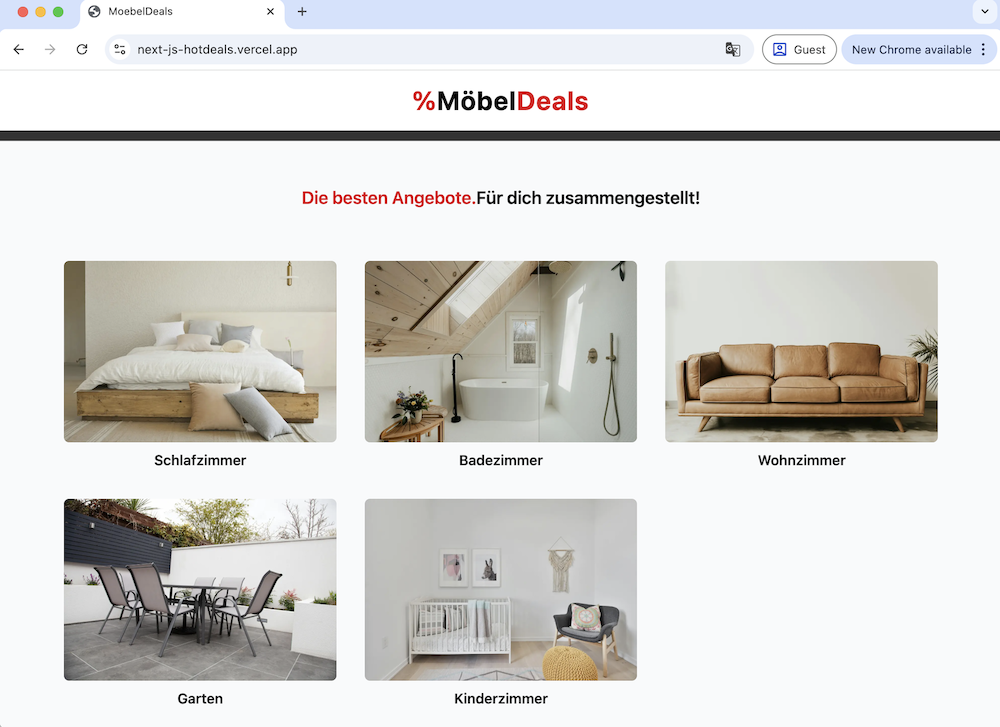
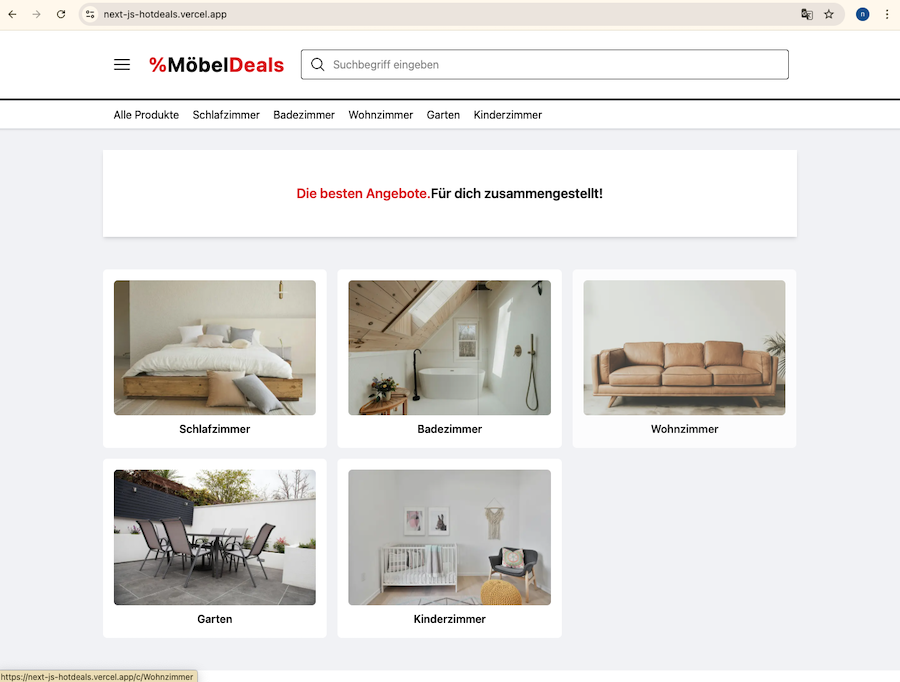
Update README

diff --git a/README.md b/README.md
@@ -2,14 +2,14 @@
 
 # MöbelDeals Platform Mock-Up
 
-This is a basic platform mock-up showcasing deals from two Austrian furniture stores. The platform is branded with a simple logo and name: MöbelDeals.
+This is a basic platform mock-up bringing together deals from two Austrian retail chains in one convenient place. The platform is branded with a simple logo and name: MöbelDeals.
 It is built as a Next.js application that uses a PostgreSQL database for storing and managing deals data. The data was scraped using Python packages (Scrapy and Playwright).
 
 #### Features
 
-Users can browse and filter deals by categories and shops.
+Users can browse, search and filter deals by categories and shops.
 Each deal links directly to the product page on the original store's website, allowing users to get more information and purchase items seamlessly.
-Currently, deals are available for the following categories: Wohnzimmer (Living Room), Schlafzimmer (Bedroom), and Badezimmer (Bathroom).
+Currently, deals are available in the following categories: Schlafzimmer (Bedroom), Badezimmer (Bathroom), Wohnzimmer (Living Room), Garten (Garden), and Kinderzimmer (Kids' Room)
 
 #### Data Collection
 
@@ -104,40 +104,53 @@ cd next-js-hotdeals
 
 ## CI/CD Pipeline – Jenkins Multibranch Pipeline
 
-(automates versioning and Docker image deployment)
-
-#### Jenkins Pipeline Features
-
-- Version Management
-  When code is pushed to, or pull requests are merged into, the `main` branch, the pipeline automatically:
-
-  - Reads the current version from `package.json`
-  - Increments the patch version (e.g., `1.2.3 → 1.2.4`)
-  - Commits the updated version back to the repository
-
-- Docker Image Build & Push
-  After updating the version:
-  - A Docker image is built from the current state of the app
-  - The image is tagged using the new version (e.g., `hotdeals-1.2.4`)
-  - The image is securely pushed to a private Docker registry
+This process automates versioning, builds and pushes a Docker image to a private Docker repository, and deploys it on an AWS EC2 instance.
 
 #### Jenkins Requirements
 
-- A configured Multibranch Pipeline job pointing to this repository
+- A configured Multibranch Pipeline job pointing to this repository.
 - Required credentials:
-  - Docker registry authentication
-  - GitHub push access
-- GitHub webhook that triggers the pipeline on pushes and pull request updates
+  - Docker registry credentials (for authentication).
+  - GitHub credentials with push access.
+  - SSH key (openSSH) for connecting to the Amazon EC2 instance.
+- A GitHub webhook configured to trigger the pipeline on push events and pull request updates.
+
+#### AWS Requirements
+
+- An AWS account
+- An Amazon EC2 key pair
+- An AWS IAM User with programmatic key access and permissions to launch EC2 instances
+- A running Amazon EC2 instance with the following setup:
+  - Docker installed (to run Docker commands)
+  - Security Group / Firewall configured to:
+    - Allow Jenkins to connect via SSH
+    - Open the necessary application port(s) or external access
+
+#### Jenkins Pipeline Features
+
+- Automated Testing
+
+  - End-to-end (E2E) tests are run using Playwright
+  - Tests are triggered automatically whenever code is pushed to any active branch
+
+- Full CI/CD Pipeline (on `main` branch updates)
+  The complete pipeline — including versioning, build, test, and deployment — runs automatically when:
+
+  - Code is pushed to the main branch, or
+  - A pull request is merged into it
+
+  The full pipeline includes the following steps: - Version Management - Reads the current version from `package.json` - Increments the patch version (e.g., `1.2.3 → 1.2.4`) - Commits the updated version back to the repository - Docker Image Build & Push - Builds a Docker image from the current state of the application - Tags the image using the new version (e.g., `<name-of-private-docker-repo>:hotdeals-1.2.4`) - Pushes the image securely to a private Docker registry - Deployment to AWS EC2 - Jenkins connects to the AWS EC2 instance via SSH - Pulls the latest Docker image from the private registry - Runs the updated container on the instance
 
 ## Technology Stack
 
 - Frontend: Next.js for server-side rendering and efficient client-side interactions.
-- Styling: Tailwind CSS for rapid and customizable UI development.
 - Database: PostgreSQL for data storage. Prisma for database schema management and querying.
-- Jenkins
-- Docker
+- Tests: End-to-end (E2E) tests using Playwright
+- Styling: Tailwind CSS for rapid and customizable UI development.
+- Containerization: Dockerfile & Docker Compose
+- CI/CD: Jenkins – for building, testing, and deploying the application
 
-#### Screenshots
+## Screenshots
 
 ![Index Page](./public/picIndexPage.png)
 ![Index Page](./public/picCatPage.png)
